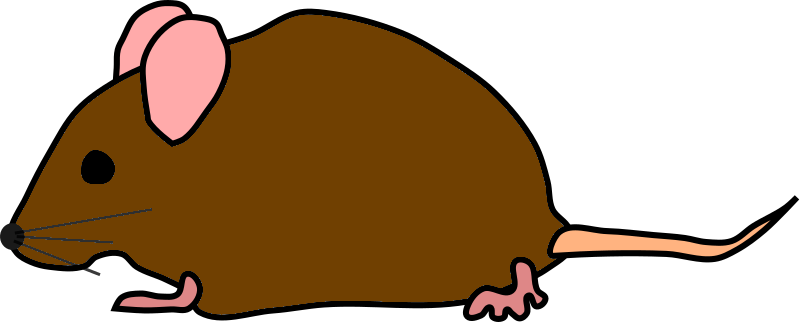
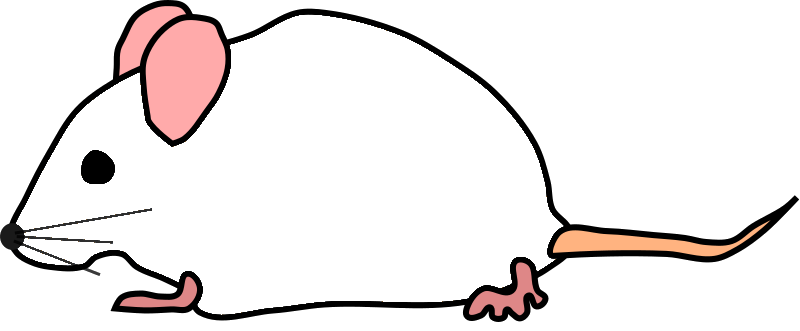
tweaks to gameplay and appearance

diff --git a/src/components/MouseCard.js b/src/components/MouseCard.js
@@ -9,7 +9,7 @@ const CardBox = styled.div`
   padding: 1rem;
   margin: 1em;
   position: relative;
-  box-shadow: 5px 5px 10px black;
+  box-shadow: 5px 5px 4px rgba(0,0,0,.3);
   border-radius: 10px;
   background: ${p => p.living ? "white" : "lightgrey"};
 `;
@@ -32,8 +32,9 @@ const ImageBox = styled.div`
 
 const Image = styled.img`
   width: 100%;
+  background: ${p => p.color};
   max-width: ${p => 30 + (Math.min(p.age, 5) * 10)}%;
-  transition: ${p => p.alive && "max-width 2s"};
+  transition: ${p => p.alive && "max-width 2s, background 1s"};
 `;
 
 const Bar = styled.div`
@@ -44,7 +45,8 @@ const Bar = styled.div`
     if (p.length < 6) return "orange";
     return "green";
   }};
-  width: ${p => p.length * 5}px;
+  transition: background .3s;
+  width: ${p => p.length * 4.5}px;
 `;
 
 const Heartbar = styled.div`
@@ -55,6 +57,7 @@ const Heartbar = styled.div`
     if (p.length < 3) return "#9acd32 ";
     return "green";
   }};
+  transition: background .3s;
   width: ${p => p.length * 5}px;
 `;
 
@@ -64,10 +67,10 @@ const MouseCard = (props) => {
     <CardBox living={mouse.alive}>
       <CardHeader>{mouse.id}</CardHeader>
       <ImageBox>
-        <Image src={mouse.alive ? mouseImage : deadMouseImage} alive={mouse.alive} age={mouse.age} />
+        <Image src={mouse.alive ? mouseImage : deadMouseImage} color={mouse.age < 1 ? "#FEC3A6" : mouse.color} alive={mouse.alive} age={mouse.age} />
       </ImageBox>
       <br/>
-      <span> Age: {mouse.age}</span>
+      <span> Age: {mouse.age} week{mouse.age !== 1 && "s"}</span>
       <br/>
       <span> Robustness: <Bar length={mouse.robustness} /> </span>
       <br/>

diff --git a/src/models/Mouse.js b/src/models/Mouse.js
@@ -1,5 +1,14 @@
 let mouseCount = 0;
 
+
+const COLORS = ["peru", "saddlebrown", "sienna", "rgb(160,95,45)",
+"rgb(150,42,25)",
+"rgb(120,90,38)",
+"rgb(120,90,38)","rgb(150,100,47)","rgb(150,80,40)",
+];
+
+const randomColor = () => COLORS[Math.floor(Math.random() * COLORS.length)];
+
 export default class Mouse {
   constructor() {
     this.age = 0;
@@ -7,21 +16,23 @@ export default class Mouse {
     this.id = mouseCount++;
     this.alive = true;
     this.utility = 0;
+    this.color = randomColor();
   }
 
   growOlder() {
     this.age++;
+    if (this.age > 52 && Math.random() > 0.98) this.die();
   }
 
   feedFirst(food){
     if (food.amount === 0) {
       if (this.robustness < 3) { this.die(); }
+      if (this.robustness < 5) { this.utility--; }
       this.robustness--;
-      this.utility--;
       return;
     }
-    food.amount--;
     this.utility++;
+    food.amount--;
   }
 
   feedSecond(food){
@@ -37,18 +48,17 @@ export default class Mouse {
     if (this.robustness < 6) {
       return [];
     }
+    const litterSize = 4 + Math.floor(Math.random() * 10);
     const newMice = [];
-    if (Math.random() > 0.5) {
-      if (Math.random() > 0.7) newMice.push(new Mouse());
-      if (Math.random() > 0.7) newMice.push(new Mouse());
-      if (Math.random() > 0.7) newMice.push(new Mouse());
-      this.robustness = this.robustness - 3;
+    while (newMice.length < litterSize) {
+      newMice.push(new Mouse());
     }
+    this.robustness = this.robustness - 3;
     return newMice;
   }
 
   die() {
     this.alive = false;
-    this.utility = this.utility - 5;
+    this.utility = this.utility - 10;
   }
 }

diff --git a/src/pages/index.js b/src/pages/index.js
@@ -10,8 +10,24 @@ import styled from "styled-components";
 const SiteTitle = styled.h1`
   text-align: center;
   color: white;
+  text-shadow: 1px 1px grey;
   grid-column-start: 0;
   grid-column-end: 3;
+`;
+
+const ResetButton = styled.button`
+  border: none;
+  background: none;
+  text-shadow: ${p => !p.over && "1px 1px grey"};
+  color: ${p => p.over ? "darkred" : "lightgrey"};
+  outline: none;
+  cursor: pointer;
+  display: block;
+  margin: auto;
+  transition: color .3s;
+  &:hover {
+    color: ${p => p.over ? "#B01212" : "white"};
+  }
 `;
 
 const Grid = styled.div`
@@ -45,15 +61,21 @@ export default class IndexPage extends React.Component {
     return (
       <Grid>
         <style dangerouslySetInnerHTML={{__html: "body { background: darkgrey; }"}}/>
-        <SiteTitle>Happy Mice</SiteTitle>
+        <SiteTitle>Happy Mice
+        <ResetButton over={this.game.colony.livingMice().length === 0} onClick={this.reset.bind(this)}>(Reset)</ResetButton>
+        </SiteTitle>
         <StatCard game={this.game} time={clock.time} />
         <Clock clock={clock} time={clock.time} running={clock.isRunning()} pause={this.pause} unpause={this.unpause} />
-        <FoodPort food={this.game.food.amount} addFood={this.game.addFood}/>
+        <FoodPort food={this.game.food.amount} addFood={this.game.addFood} disabled={!clock.isRunning()}/>
         <MouseBox colony={this.game.colony} />
       </Grid>
     );
   }
 
+  reset() {
+    this.game = new Game();
+    clock.reset();
+  }
   advance() {
     this.game.tick();
     this.setState({time: clock.time});

diff --git a/src/components/FoodPort.js b/src/components/FoodPort.js
@@ -39,7 +39,7 @@ const FoodPyramid = styled.div`
 `;
 
 const AddFoodButton = styled.button`
-  background: radial-gradient(yellow, yellow, khaki);
+  background: ${p => p.disabled ? "lightgrey" : "radial-gradient(yellow, yellow, khaki)"};
   border: 3px solid tan;
   font-weight: bold;
   font-size: 1.1em;
@@ -50,6 +50,7 @@ const AddFoodButton = styled.button`
   padding: .5em;
   transform: translateX(-50%);
   z-index: 20;
+  outline: none;
   cursor: pointer;
 `;
 
@@ -62,7 +63,7 @@ const FoodPort = (props) => {
         </Container>
       </TabRow>
       <HideOverflow>
-      <AddFoodButton onClick={props.addFood}>Feed Mice</AddFoodButton>
+      <AddFoodButton disabled={props.disabled} onClick={!props.disabled && props.addFood}>Feed Mice</AddFoodButton>
       <FoodPyramid amount={props.food} />
     </HideOverflow>
     </StyledFoodPort>

diff --git a/src/components/Clock.js b/src/components/Clock.js
@@ -19,12 +19,13 @@ const CardBox = styled.div`
 const Time = styled.div`
   font-size: 2em;
   font-weight: bold;
+  color: ${p => p.running || "ivory" };
   margin: auto;
   text-align: center;
 `;
 
 const Instructions = styled.div`
-  color: ${p => p.running ? "grey" : "white"};
+  color: ${p => p.running ? "grey" : "ivory"};
   font-size: .8em;
   width: auto;
   text-align: center;
@@ -49,7 +50,7 @@ const Clock = (props) => {
           <StyledSectionTitle> Clock </StyledSectionTitle>
         </Container>
       </TabRow>
-      <Time>{displayTime(props.clock.time)}</Time>
+      <Time running={props.running}>{displayTime(props.clock.time)}</Time>
       <br/>
       <Instructions running={props.running} >(<em>click or space to {props.running ? "pause" : "unpause"}</em>)</Instructions>
     </CardBox>

diff --git a/src/components/StatCard.js b/src/components/StatCard.js
@@ -40,6 +40,7 @@ const StatCard = (props) => {
       <SubStat><StatName>Total:</StatName> {game.utility()}</SubStat>
       <SubStat><StatName>Per Second:</StatName> {game.averageTimeUtility(props.time)}</SubStat>
       <SubStat><StatName>Per Mouse:</StatName> {game.averageMouseUtility()}</SubStat>
+      <SubStat><StatName>10, 50, 90%:</StatName> {game.medianMouseUtility(0.1)}, {game.medianMouseUtility(0.5)}, {game.medianMouseUtility(0.9)} </SubStat>
       <br/>
       <Stat><StatName>Mice</StatName></Stat>
       <SubStat><StatName>Alive:</StatName> {game.colony.livingMice().length}</SubStat>

diff --git a/src/models/Game.js b/src/models/Game.js
@@ -10,7 +10,7 @@ export default class Game {
   tick() {
     this.colony.ageMice();
     this.colony.feedMice(this.food);
-    this.colony.breedMice();
+    if (!window.location.search.includes("megan")) this.colony.breedMice();
   }
 
   utility() {
@@ -23,5 +23,10 @@ export default class Game {
 
   averageMouseUtility() {
     return Math.floor(this.colony.allUtility() / this.colony.mice.length);
+  }
+
+  medianMouseUtility(percent) {
+    const sorted = this.colony.orderedByUtility();
+    return sorted[Math.floor(sorted.length * percent)].utility;
   }
 }

diff --git a/src/components/StyledTitles.js b/src/components/StyledTitles.js
@@ -5,6 +5,7 @@ export const StyledSectionTitle = styled.div`
   font-size: 1.5em;
   font-weight: bold;
   color: white;
+  text-shadow: 1px 1px grey;
   display: block;
   position: absolute;
   left: 50%;
@@ -15,6 +16,7 @@ export const StyledSectionTitle = styled.div`
 export const TabRow = styled.div`
   position: absolute;
   top: 0;
+  left: 0;
   transform: translateY(-100%);
   min-height: 1.5em;
   width: 100%;

diff --git a/src/helpers/Clock.js b/src/helpers/Clock.js
@@ -21,6 +21,10 @@ clock.toggle = () => {
   clock.isRunning() ? clock.stop() : clock.start();
 }
 
+clock.reset = () => {
+  clock.time = 0;
+}
+
 const tickClock = () => { clock.time++; clock.funcToCall() };
 
 

diff --git a/src/models/Colony.js b/src/models/Colony.js
@@ -55,4 +55,8 @@ export default class Colony {
   deadMice() {
     return dead(this.mice);
   }
+
+  orderedByUtility() {
+    return [...this.mice].sort((a, b) => (a.utility < b.utility) && -1);
+  }
 }
